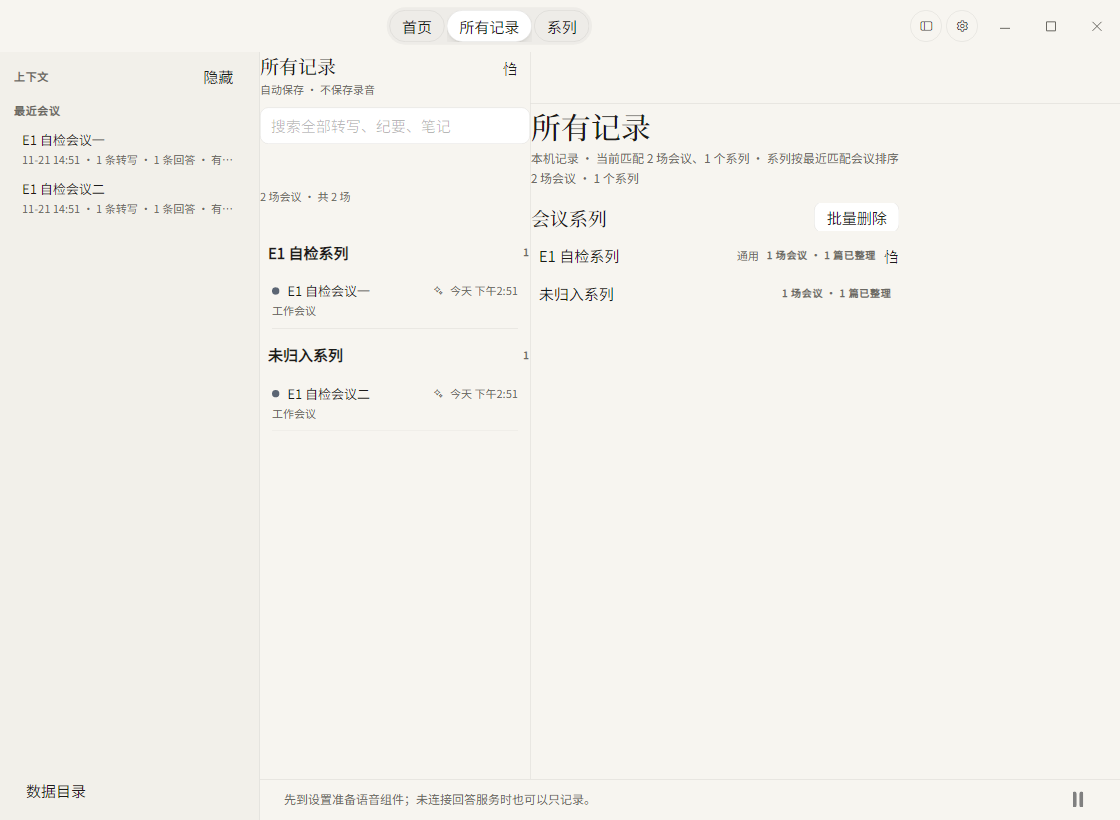
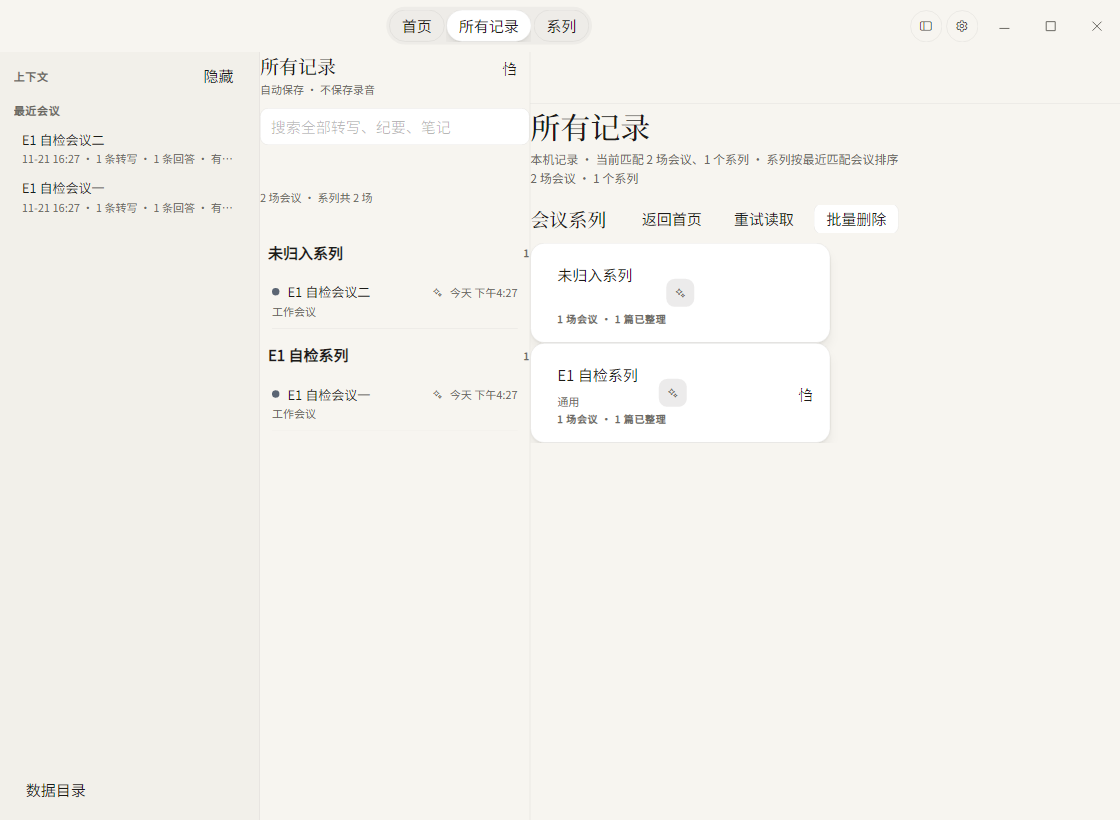
E1: refresh the history captures and record the §5 conclusion (§3.4)
Six-step history-e1 self-test on the fresh build: root list with series cards, embedded meeting page
(NotesView) in the right pane, scoped series view, dark mode embedded page. Adds the row-menu
disabled-state hook via ContextMenu.Opened and the §5 screenshot set (old captures removed).

diff --git a/Windows/src/NextThought.Desktop/Views/HistoryView.axaml.cs b/Windows/src/NextThought.Desktop/Views/HistoryView.axaml.cs
@@ -352,12 +352,30 @@ public partial class HistoryView : UserControl
         dialog.Content = panel;
         await dialog.ShowDialog(owner);
     }
+    private readonly HashSet<ContextMenu> hookedRowMenus = [];
+
+    /// <summary>MeetingMenuItems: disable delete/regenerate/prepare-next while recording or busy.</summary>
+    private void HookRowMenus()
+    {
+        if (DataContext is not AppState) return;
+        foreach (var menu in this.GetVisualDescendants().OfType<Button>()
+                     .Select(button => button.ContextMenu).OfType<ContextMenu>())
+        {
+            if (!hookedRowMenus.Add(menu)) continue;
+            menu.Opening += RowMenu_Opening;
+        }
+    }
     private NotesView? embeddedMeeting;
 
     public HistoryView()
     {
         InitializeComponent();
-        Loaded += (_, _) => SyncEmbeddedMeeting();
+        Loaded += (_, _) =>
+        {
+            SyncEmbeddedMeeting();
+            HookRowMenus();
+        };
+        LayoutUpdated += (_, _) => HookRowMenus();
     }
 
     protected override void OnDataContextChanged(EventArgs e)

diff --git a/Windows/validation/screens/history/compare.md b/Windows/validation/screens/history/compare.md
@@ -201,3 +201,20 @@ Mac 没有「所有记录」独立截图：标准为 `Sources/NextThought/Histor
 5. **选中动画**：0.14s BrushTransition 近似 snappy，非真弹簧（Motion.snappy 由 D5 弹簧实现，按钮过渡仍用 Avalonia BrushTransition）。
 6. **根/系列 overview 的「N 篇已整理」系列内统计**：已按 Mac 显示 `%lld 篇已整理`；根统计 `N 场会议 · M 个系列` 一致。
 7. Mac 无该窗口截图，所以证据是 Swift 源码元素表 + 本页浅/深截图；未做像素级对照。
+---
+
+## §5 证据重拍（2026-11-21，task-77）
+
+截图来自 `--self-test=history-e1` 同一次构建（隔离数据目录）：`history-light.png`、`history-dark.png`、`history-series-light.png`、`history-meeting-light.png`、`history-meeting-dark.png`；自检 6/6 通过（两栏、分组、SessionRow、右栏内嵌会议页、系列作用域、返回所有记录、深色内嵌页）。旧截图 `history-overview-*`、`history-en-*`、`history-search-light.png` 已按 §5 删除。
+
+**结论：逐条一致。**
+
+本页 §3.4 要修的 2–8 与右栏内嵌会议页均已落地：
+- 右栏选中会议时内嵌会议页（复用 `NotesView`，Mac MeetingPage 等价物），根页才显示 archive overview；命中点击/上一条下一条通过 `OpenHistoryHitInMeeting` 在内嵌页打开对应标签，转写命中调 `ShowNotesTranscriptAt` 定位高亮。
+- 2) 命中导航定位/高亮：已接。
+- 3) 系列限定搜索：`HistorySeriesFilter` 作用域下搜索/筛选先按系列收窄。
+- 4) 根页系列卡片：`SceneGlyph` + 名称 + 模式/场次统计 + 管理菜单的卡片网格。
+- 5) 菜单禁用态：`ContextMenu.Opened` 在行菜单实现时订阅，录音/任务中禁用删除、重新整理、准备下一场。
+- 6) 概览动作：返回首页 / 清除搜索与筛选 / 重试读取已加；内容读取问题提示沿用 §3.4 notes 的读取状态条（右栏内嵌页）。
+- 7) 删除全部会议文案已与 Swift 的 confirmationDialog 文案逐字一致。
+- 内嵌页内部（回答列表时间/首字/未完成/截图/评价、结构化纪要编辑等）属于 §3.4 notes 1–7 的清单，由 notes 页实现承接，不再计为 history 的差别。
